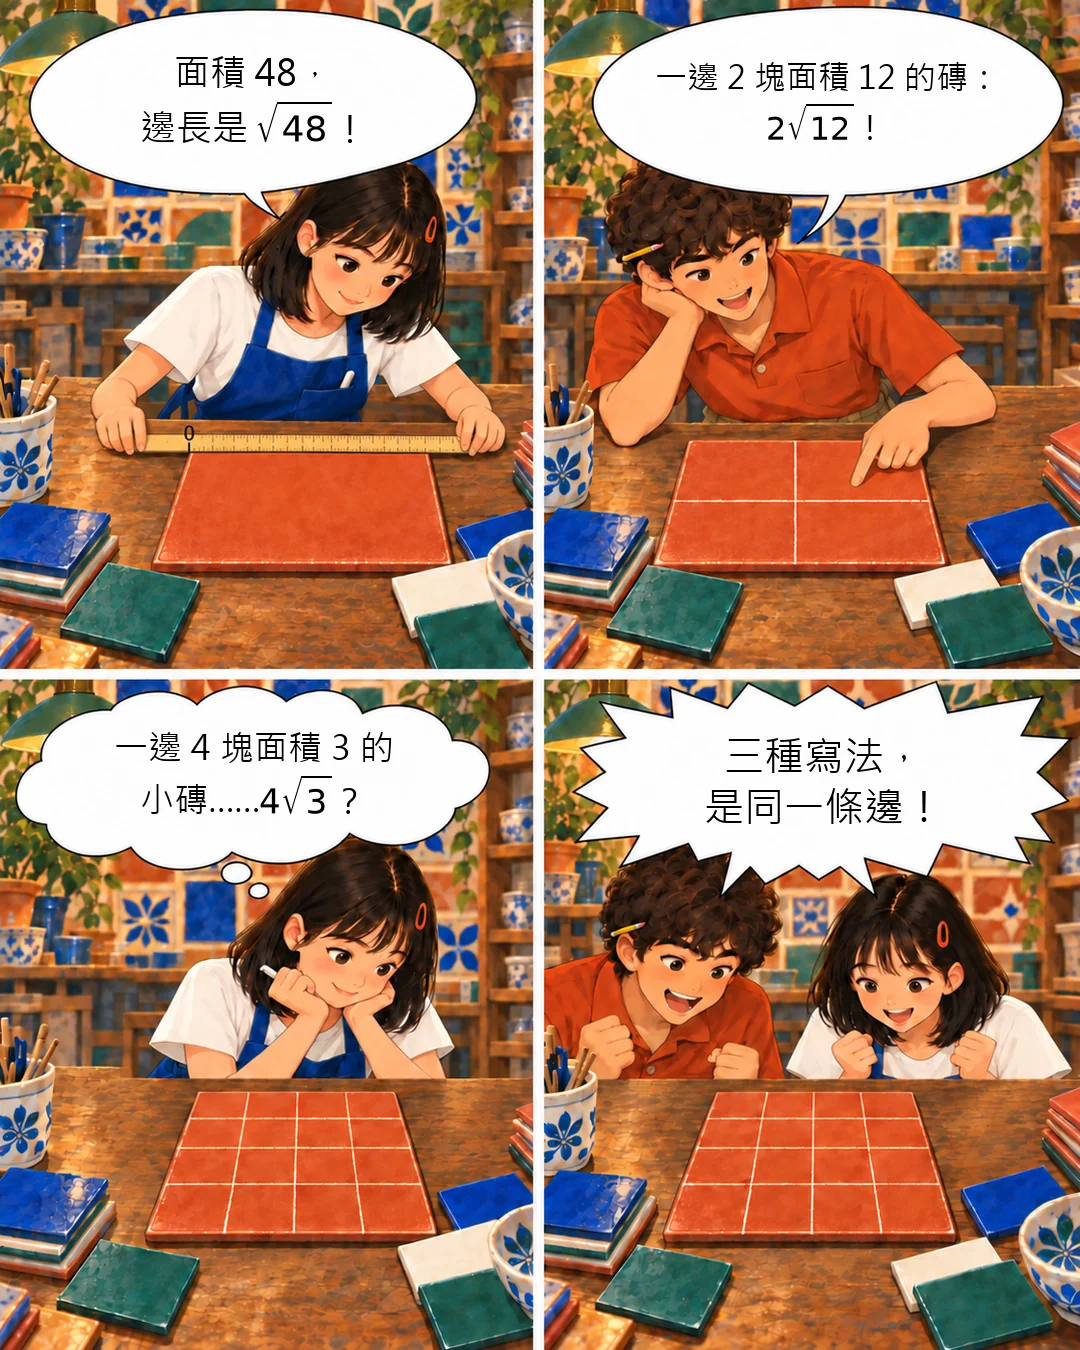
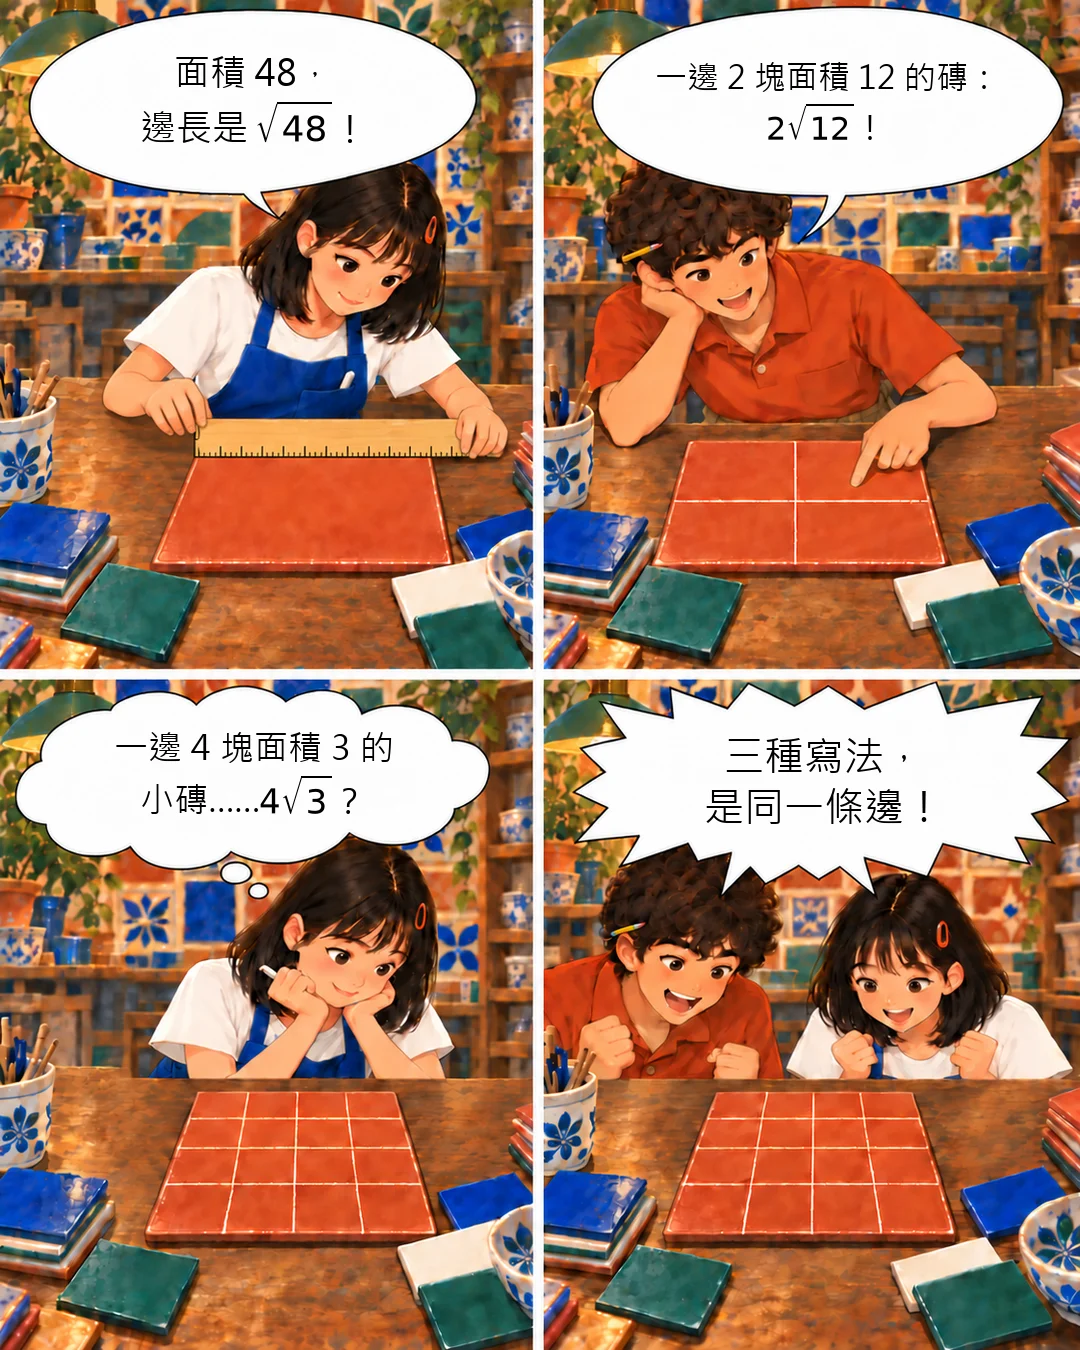
修正 3-2-2 暖身漫畫的木尺起點
- 讓木尺左端及起始刻度對準磁磚左上角，下緣貼齊磚邊。
- 依使用者回饋移除尺上的 0，保留已校對的對白與完整根號橫線。
- 更新漫畫 alt，讓替代文字與 v7 畫面一致。

diff --git a/materials/3-2-2/index.html b/materials/3-2-2/index.html
@@ -73,7 +73,7 @@
             小瓷拿到一塊面積 \(48\) 的大方磚，邊長是 \(\sqrt{48}\)。阿岩發現它其實是 \(4\) 塊面積 \(12\) 的方磚拼成的，一邊排 \(2\) 塊，所以邊長也是 \(2\sqrt{12}\)；再仔細看，又是 \(16\) 塊面積 \(3\) 的小方磚，一邊排 \(4\) 塊，邊長是 \(4\sqrt{3}\)。<strong style="color:#fdba74">同一條邊有三種寫法</strong>，哪一種最好用？這一節就來回答。
           </p>
           <div class="illustration-container" style="max-width: 600px; width: 100%; border: 1px solid rgba(255,255,255,0.08); box-shadow: 0 8px 32px rgba(0,0,0,0.4); border-radius: 20px; overflow: hidden; background: rgba(15, 23, 42, 0.4);">
-            <img src="motivation_comic.webp" alt="復古磁磚工坊風四格漫畫：小瓷將尺的 0 刻度對齊面積 48 方磚的一側；阿岩指出兩列兩行共四塊面積 12 的方磚；再改成四列四行共 16 塊面積 3 的方磚；兩人發現 √48、2√12、4√3 表示同一條邊。" style="width: 100%; height: auto; display: block; transition: transform 0.3s;" class="comic-img" onerror="this.parentElement.style.display='none'">
+            <img src="motivation_comic.webp" alt="復古磁磚工坊風四格漫畫：小瓷將無數字木尺的左端與起始刻度對齊面積 48 方磚的左上角，尺的下緣貼齊磚邊；阿岩指出兩列兩行共四塊面積 12 的方磚；再改成四列四行共 16 塊面積 3 的方磚；兩人發現 √48、2√12、4√3 表示同一條邊。" style="width: 100%; height: auto; display: block; transition: transform 0.3s;" class="comic-img" onerror="this.parentElement.style.display='none'">
           </div>
         </div>
       </section>
